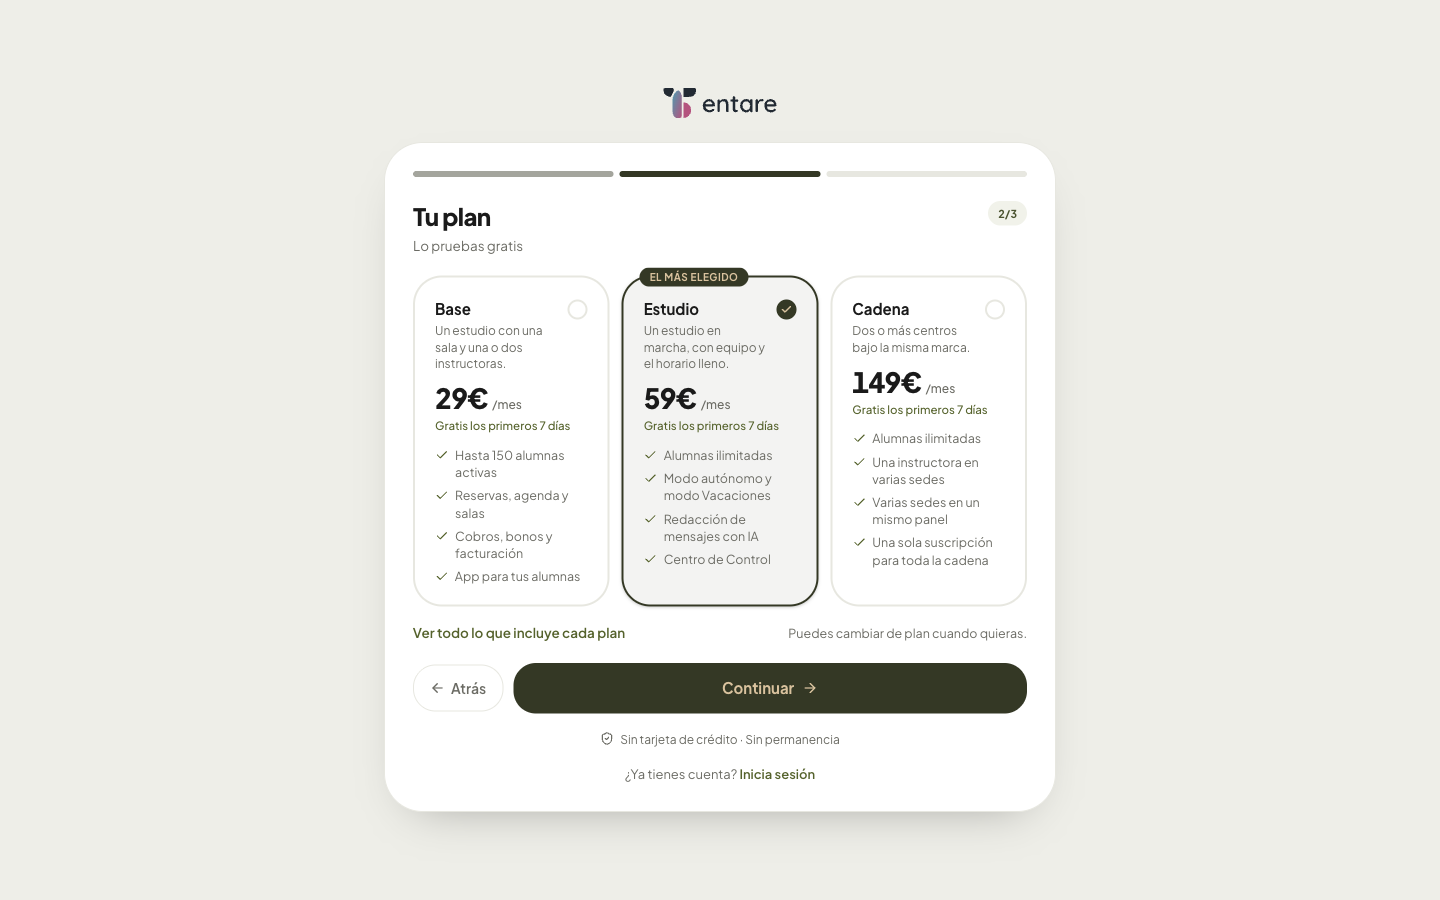
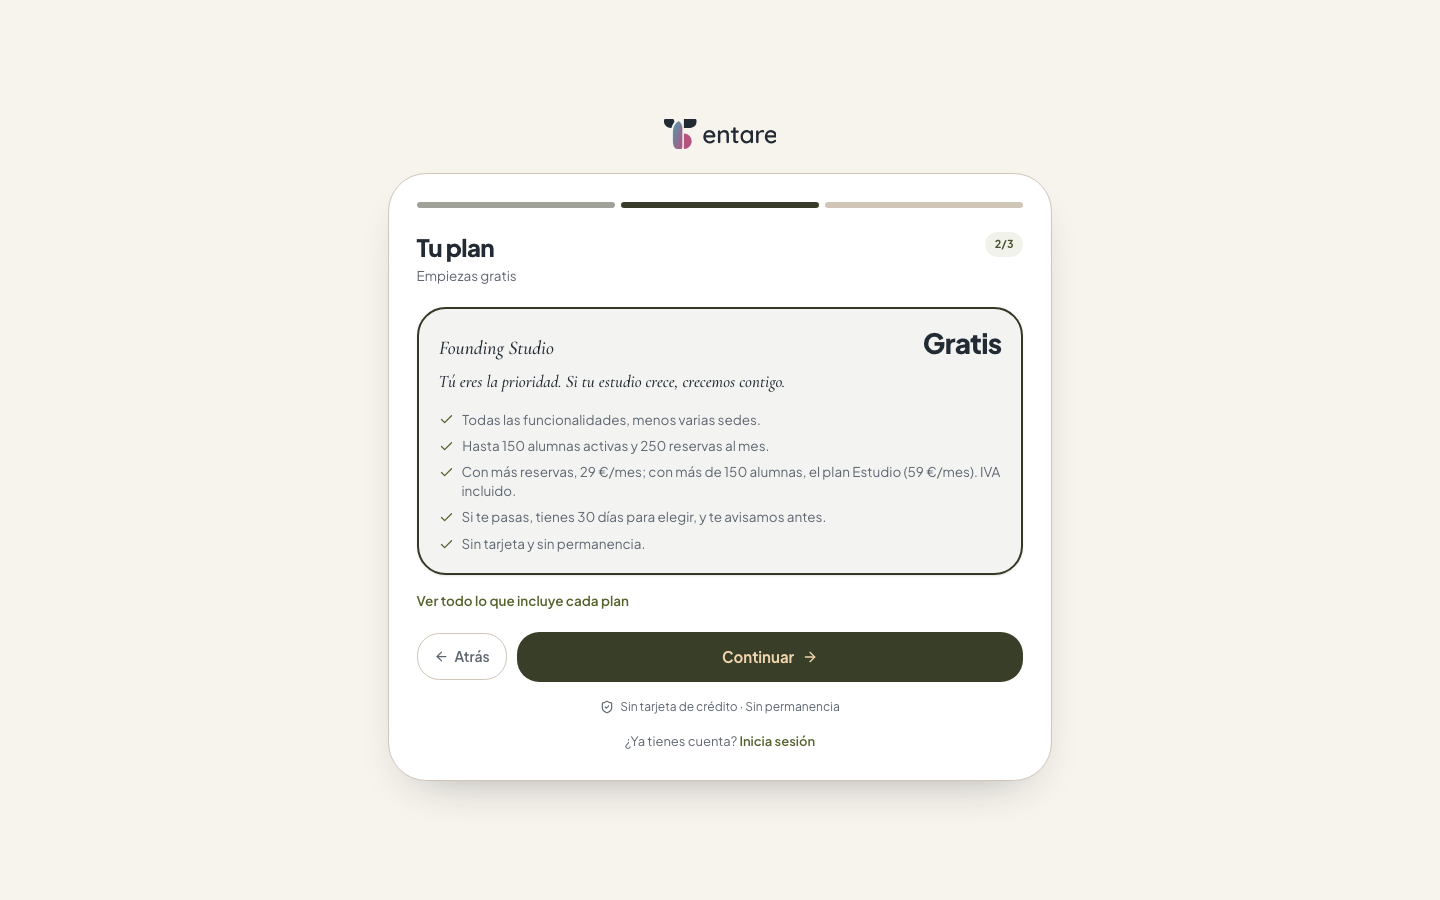
fix(alta): «59 €/mes» sin partirse y la captura del paso 2 de la ayuda, del alta gratis

Changed region(s): [[0.25, 0.28, 0.75, 0.9333], [0.2812, 0.0933, 0.7188, 0.3111]]

diff --git a/components/planes/plan-gratis-alta.tsx b/components/planes/plan-gratis-alta.tsx
@@ -20,7 +20,7 @@ export function PlanGratisAlta() {
   const puntos = [
     `${TODO_MENOS_SEDES}.`,
     `${TOPE_GRATIS}.`,
-    `${CON_MAS_RESERVAS.charAt(0).toUpperCase()}${CON_MAS_RESERVAS.slice(1)}; con más de ${GRATIS_ALUMNAS} alumnas, el plan ${PLAN_INFO.ESTUDIO.nombre} (${PLAN_INFO.ESTUDIO.precioMes} €/mes). IVA incluido.`,
+    `${CON_MAS_RESERVAS.charAt(0).toUpperCase()}${CON_MAS_RESERVAS.slice(1)}; con más de ${GRATIS_ALUMNAS} alumnas, el plan ${PLAN_INFO.ESTUDIO.nombre} (${PLAN_INFO.ESTUDIO.precioMes}\u00a0€/mes). IVA incluido.`,
     `Si te pasas, tienes ${GRATIS_MARGEN_DIAS} días para elegir, y te avisamos antes.`,
     'Sin tarjeta y sin permanencia.',
   ];
